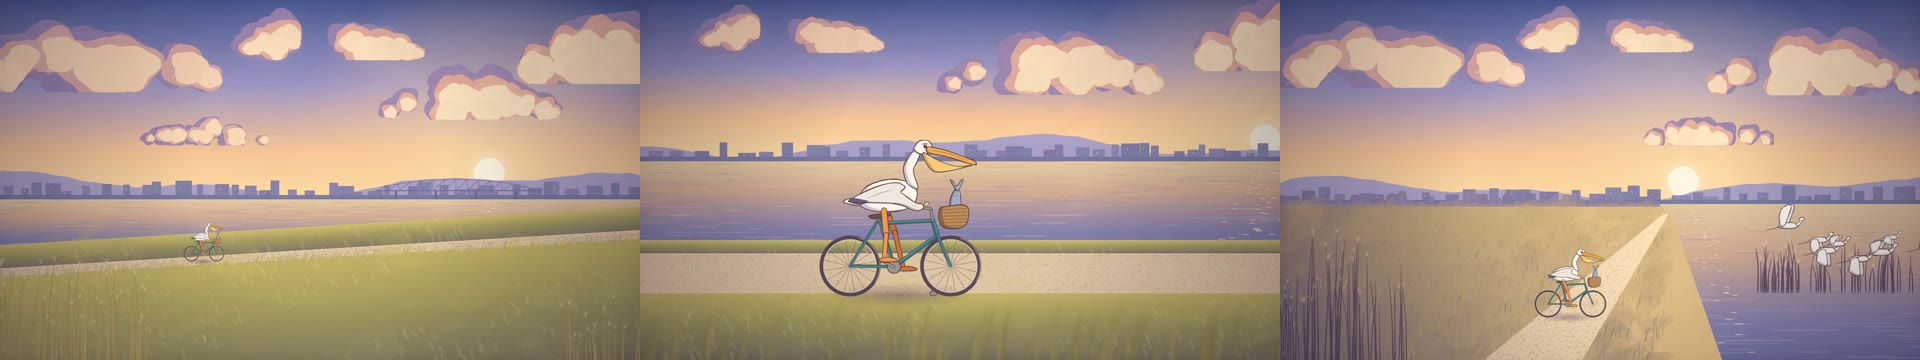
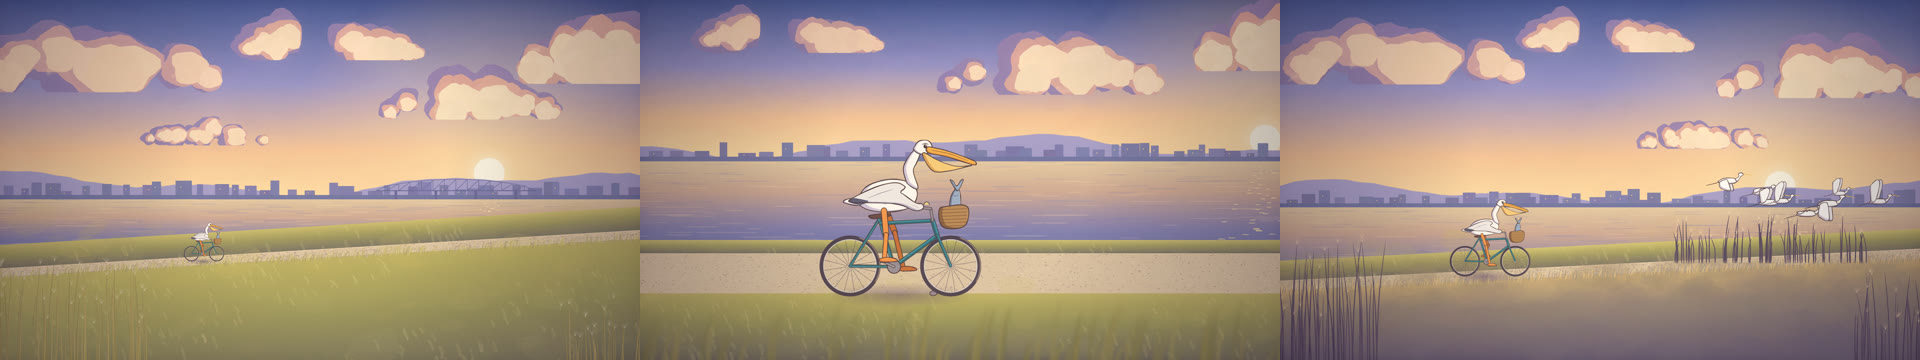
修正鹈鹕横着骑车：重画最后一个镜头，新增朝向检查
第一版最后一个镜头里，侧面画的鹈鹕沿着一条通向纵深的路斜着滑向远处，
车头方向和前进方向差了将近 50 度。四轮看图质检都没发现。

- 最后一个镜头改成侧面看河堤，路横穿画面，鹈鹕向右骑向夕阳
- 新增 heading 检查：镜头每帧用 kit.actor() 报告角色在地面上的位置、
  大小和朝向；移动方向偏离朝向超过 20°，或侧面画的角色往纵深里走，
  都判失败
- 原来的错误收进缺陷样例 riding-sideways，检查能抓到
  （偏了 47°，大小每秒变化 19%）
- 美术规范增加“合乎物理”一条，看图质检增加“这个动作在现实里可能吗”

Claude-Session: https://claude.ai/code/session_011pySt9goBD28FhCfhxhtPW

diff --git a/evals/cases/pelican-embankment/scenes.js b/evals/cases/pelican-embankment/scenes.js
@@ -620,6 +620,7 @@ export default {
       const y = roadTop(px + pan) + 14;
       groundShadow(g, px - pan * 0 - 6, y + 2, s);
       pelican(kit, g, px, y, s, { ...ride(kit, t, {}), light: -0.25 });
+      kit.actor('鹈鹕', { x: px + pan, y, s, facing: 'right' });
       reeds(kit, g, t, [[-20, 460, 1110, 140, 330, 70], [1700, 1960, 1110, 90, 220, 30]], 14);
     };
   },
@@ -662,6 +663,8 @@ export default {
         g.stroke();
       }
       pelican(kit, g, 780, 884, 1, { ...pose, light: -0.35 });
+      // tracking shot: the camera follows, so on the ground the rider moves right as fast as the road scrolls
+      kit.actor('鹈鹕', { x: 780 + nearX, y: 884, s: 1, facing: 'right' });
       // the near verge, blurred by speed
       g.save();
       g.filter = 'blur(6px)';
@@ -675,120 +678,67 @@ export default {
     };
   },
 
-  /** Toward the sunset: the bell, the egrets lifting from the reeds, the rider getting small. */
+  /**
+   * Toward the sunset, seen from the side: the embankment runs across the frame and up toward the sun
+   * on the right; the rider goes the way it faces, rings the bell, and the egrets lift from the reeds.
+   */
   sunset(kit, scene) {
     const plate = kit.layer(1920, 1080);
-    const sun = [1210, 545];
-    paintSky(kit, plate.g, 1920, 610, sun, 41);
-    paintClouds(kit, plate.g, [[320, 220, 760, 240], [960, 130, 520, 150], [1620, 250, 640, 200], [1280, 420, 420, 90]], sun);
-    paintFarBank(kit, plate.g, 1920, 600, 45);
-    paintRiver(kit, plate.g, 1920, 612, 1080, sun[0], 46);
+    const sun = [1500, 560];
+    paintSky(kit, plate.g, 1920, 620, sun, 41);
+    paintClouds(kit, plate.g, [[320, 210, 760, 240], [960, 130, 520, 150], [1640, 260, 640, 190], [1260, 430, 420, 90]], sun);
+    paintFarBank(kit, plate.g, 1920, 610, 45);
+    paintRiver(kit, plate.g, 1920, 622, 860, sun[0], 46);
     const g = plate.g;
-    // land on the near side: the embankment and the fields below it, a wedge from the left edge to the sun
-    const crest = (u) => [lerp(-60, 1150, u), lerp(1180, 640, u)];
-    g.beginPath();
-    g.moveTo(-10, 612);
-    g.lineTo(1140, 612);
-    g.lineTo(1160, 642);
-    g.lineTo(1150, 1090);
-    g.lineTo(-10, 1090);
-    g.closePath();
-    const land = g.createLinearGradient(0, 1080, 900, 620);
-    land.addColorStop(0, '#6e6170');
-    land.addColorStop(0.5, '#a08a68');
-    land.addColorStop(1, '#d9b47a');
-    g.fillStyle = land;
-    g.fill();
-    // the far side of the embankment drops to the water, catching the low sun
-    g.beginPath();
-    g.moveTo(1160, 642);
-    g.lineTo(1150, 1090);
-    g.lineTo(1330, 1090);
-    g.lineTo(1172, 640);
-    g.closePath();
-    g.fillStyle = kit.css('#d9b27a');
-    g.fill();
-    {
-      const tr = kit.rng(54);
-      for (let x = -20; x < 1130; x += 14 + tr() * 22) {
-        const hgt = 10 + tr() * 26 * (x < 700 ? 1 : 0.5);
-        const w = 14 + tr() * 22;
-        g.beginPath();
-        g.ellipse(x, 616 - hgt * 0.5, w * 0.5, hgt * 0.55, 0, 0, Math.PI * 2);
-        g.fillStyle = kit.css(kit.jit('#7a6f92', tr, 10));
-        g.fill();
-      }
-      g.fillStyle = kit.css('#857a8e');
-      g.fillRect(0, 612, 1140, 8);
+    // the road climbs gently toward the sun, like the first shot, so the rider rides the way it faces
+    const roadTop = (x) => 842 - x * 0.05;
+    // the river side of the embankment, catching the low sun
+    paintSlope(kit, g, 1920, (x) => roadTop(x) - 60, 60, 47, { lit: 0.9 });
+    paintRoad(kit, g, 1920, roadTop, () => 30, 48);
+    // the near slope, backlit: warm at the crest, violet below
+    for (let x = 0; x < 1920; x += 3) {
+      const y0 = roadTop(x) + 30;
+      const grd = g.createLinearGradient(0, y0, 0, 1080);
+      grd.addColorStop(0, kit.css('#c9a46a'));
+      grd.addColorStop(0.35, kit.css('#8c7a6a'));
+      grd.addColorStop(1, kit.css('#5e5468'));
+      g.fillStyle = grd;
+      g.fillRect(x, y0, 3, 1080 - y0);
     }
-    kit.mottle(g, 0, 620, 1150, 470, (x, y) => kit.mix(kit.mix('#b8996a', '#7a6a72', kit.clamp((y - 640) / 440)), '#d0a86a', kit.clamp(x / 1400) * 0.4), { n: 500, size: 90, alpha: 0.14, r: kit.rng(52), angle: -0.4 });
-    // road on the crest
-    g.beginPath();
-    g.moveTo(600, 1090);
-    g.lineTo(1150, 642);
-    g.lineTo(1166, 642);
-    g.lineTo(900, 1090);
-    g.closePath();
-    const rd = g.createLinearGradient(0, 1080, 1150, 640);
-    rd.addColorStop(0, '#b89a86');
-    rd.addColorStop(1, '#ffe2b0');
-    g.fillStyle = rd;
-    g.fill();
-    const r = kit.rng(47);
-    for (let i = 0; i < 1800; i++) {
-      const u = r();
-      const y = 1080 - u * 440;
-      const xl = 600 + u * 550;
-      const xr = 900 + u * 266;
-      const x = xl + r() * (xr - xl);
-      g.fillStyle = kit.css(kit.jit(r() < 0.5 ? '#e3c9a1' : '#9e8478', r, 18), 0.6);
-      g.fillRect(x, y, (1 - u) * 4 + 1, (1 - u) * 2 + 0.6);
-    }
-    // grass on the near slope, lit along the crest
-    {
-      const gr = kit.rng(53);
-      const roadLeft = (y) => 600 + ((1090 - y) / 448) * 550;
-      const roadRight = (y) => 900 + ((1090 - y) / 448) * 266;
-      const landRight = (y) => 1160 - ((y - 642) / 448) * 10;
-      for (let i = 0; i < 900; i++) {
-        const y = 650 + gr() * 440;
-        const x = gr() * landRight(y);
-        if (x > roadLeft(y) - 6 && x < roadRight(y) + 6) continue;
-        const u = (y - 640) / 440;
-        kit.grass(g, [x, x + 1], y, { n: 1, len: 8 + 26 * u, colors: ['#9a8c5a', '#7d765a', '#b8a06a', '#8a7a86'], lean: 0.2, r: gr, width: 1 + u * 1.4 });
-      }
-    }
-    kit.tooth(g, 1920, 1080, 48, 0.05);
-    const roadAt = (u) => [lerp(750, 1158, u), lerp(1080, 642, u)];
+    kit.mottle(g, 0, 780, 1920, 300, (x, y) => kit.mix('#a08a68', '#6a5f70', kit.clamp((y - roadTop(x)) / 260)), { n: 380, size: 110, alpha: 0.13, r: kit.rng(52), angle: -0.1 });
+    kit.grass(g, [0, 1920], (x) => roadTop(x) + 34, { n: 900, len: 18, colors: ['#e0b878', '#b89a6a', '#9a8a7a'], lean: 0.2, r: kit.rng(53), width: 1.6 });
+    kit.tooth(g, 1920, 1080, 49, 0.05);
     const birds = Array.from({ length: 8 }, (_, i) => {
       const br = kit.rng(60 + i);
       // the first egret goes on the event itself, the rest follow within a third of a second
-      return { x: 1420 + i * 58 + br() * 30, y: 800 + (i % 3) * 26 + br() * 20, vx: 90 + br() * 90, vy: -(120 + br() * 80), delay: i === 0 ? 0 : 0.05 + br() * 0.3, ph: br(), s: 0.65 + br() * 0.35 };
+      return { x: 1240 + i * 62 + br() * 30, y: 690 + (i % 3) * 20 + br() * 16, vx: 70 + br() * 90, vy: -(130 + br() * 80), delay: i === 0 ? 0 : 0.05 + br() * 0.3, ph: br(), s: 0.65 + br() * 0.35 };
     });
     return (g2, t, dur) => {
       g2.drawImage(plate.canvas, 0, 0);
-      glitter(kit, g2, t, sun[0] + 40, 626, 1060, 160, 49, 0, (x) => Infinity, (x, y) => x > 1172 + ((y - 640) / 450) * 160);
-      // reeds on the river side, where the egrets hide
-      reeds(kit, g2, t, [[1430, 1900, 880, 70, 170, 70]], 50, { backlit: true });
-      // the rider moves up the road toward the sun, getting smaller
-      const u = 0.12 + (t / dur) * 0.34;
-      const [x, y] = roadAt(u);
-      const s = lerp(0.6, 0.3, (u - 0.12) / 0.34);
-      groundShadow(g2, x - 10 * s, y + 2, s);
-      pelican(kit, g2, x, y, s, { ...ride(kit, t, { bellAt: scene.events.bell }), light: -0.2 });
-      // the egrets lift at 1.8 s into the shot
+      glitter(kit, g2, t, sun[0], 640, 840, 170, 50, 0, (x) => roadTop(x) - 66);
+      // reeds on the river side of the embankment, where the egrets hide
+      reeds(kit, g2, t, [[1180, 1760, 790, 60, 150, 70]], 51, { backlit: true });
+      // the rider follows the road to the right, toward the sun
+      const x = 240 + t * 150;
+      const y = roadTop(x) + 16;
+      const s = 0.5;
+      // backlit: the shadow falls toward us and behind
+      groundShadow(g2, x - 30 * s, y + 4, s);
+      pelican(kit, g2, x, y, s, { ...ride(kit, t, { bellAt: scene.events.bell }), light: -0.1 });
+      kit.actor('鹈鹕', { x, y, s, facing: 'right' });
+      // the egrets lift at the event, toward the sun
       const d = kit.twos(t);
       for (const [i, b] of birds.entries()) {
         const k = d - scene.events.birds - b.delay;
         if (k < 0) continue;
         const bx = b.x + b.vx * k + 40 * k * k;
-        const by = b.y + b.vy * k + 30 * k * k * -0.5;
+        const by = b.y + b.vy * k - 15 * k * k;
         // a wingbeat about three times a second, drawn on twos
         const phase = 0.5 + 0.5 * Math.sin((k * 3.2 + b.ph) * Math.PI * 2);
-        egret(kit, g2, bx, by, b.s * 1.15 * (1 - k * 0.07), phase, 70 + i);
+        egret(kit, g2, bx, by, b.s * 1.1 * (1 - k * 0.07), phase, 70 + i);
       }
-      // foreground reeds, backlit, on the left
-      reeds(kit, g2, t, [[-30, 380, 1110, 160, 420, 60]], 51, { backlit: true });
+      // foreground reeds, backlit, at both corners
+      reeds(kit, g2, t, [[-30, 300, 1110, 160, 400, 50], [1720, 1960, 1110, 120, 300, 30]], 54, { backlit: true });
     };
   },
 };

diff --git a/verticals/narrative/runtime/main.js b/verticals/narrative/runtime/main.js
@@ -4,7 +4,10 @@ import * as engine from './engine.js';
 const film = await (await fetch('/film/film.resolved.json')).json();
 const timeline = film.timeline;
 const shots = film.customScenes ? (await import('/film/scenes.js')).default : {};
-const kit = { ...engine };
+// Shots report each character every frame: its position on the ground plane (before any camera
+// move), its scale, and which way it faces. The checks use this to catch impossible motion.
+let frameActors = [];
+const kit = { ...engine, actor: (name, info) => frameActors.push({ name, ...info }) };
 engine.initGrain();
 
 const g = document.getElementById('frame').getContext('2d');
@@ -27,6 +30,7 @@ function seek(t) {
   const i = scenes.findIndex((s, k) => t >= s.start && (t < s.end || k === last));
   if (i < 0) return;
   const s = scenes[i];
+  frameActors = [];
   const lt = t - s.start;
   const dur = s.end - s.start;
   g.save();
@@ -43,6 +47,6 @@ function seek(t) {
   }
 }
 
-window.DF = { duration: timeline.duration, fps: timeline.fps, seek };
+window.DF = { duration: timeline.duration, fps: timeline.fps, seek, get actors() { return frameActors; } };
 seek(Number(new URLSearchParams(location.search).get('t') || 0));
 document.documentElement.dataset.ready = '1';

diff --git a/README.md b/README.md
@@ -14,7 +14,7 @@
 ## 现状
 
 - 一条管线端到端跑通：脚本、时间轴、渲染、自检、成片。
-- 20 项自检。数据短片跑其中 17 项，叙事短片跑 8 项，各跑各的。旁白用 Edge 的中文神经语音，并由语音识别逐句核对念的内容和数字。
+- 21 项自检。数据短片跑其中 17 项，叙事短片跑 9 项，各跑各的。旁白用 Edge 的中文神经语音，并由语音识别逐句核对念的内容和数字。
 - 评测集：8 个用例，34 条注入缺陷。[最近一次结果](evals/BASELINE.md)是干净用例误报 0/8，缺陷检出 34/34。
 - 一支片子可以自带场景代码：内置场景做不出的画面（比如折线图），由智能体为这支片子现写，同样要过自检。
 - 无人值守：模型只拿简报和数据，独立交付影片。两个模型都能做完全部 7 个用例，包括要自己写画面代码的那个。最便宜的 Haiku 5.5 每支约 0.01 美元，Fable 5.2 约 0.7 美元。运行记录在 [evals/agent-runs/](evals/agent-runs/)。
@@ -120,13 +120,14 @@ node evals/run.mjs
 node pipeline/cli.mjs run evals/cases/pelican-embankment
 ```
 
-画法和动作的规矩见 [verticals/narrative/ART.md](verticals/narrative/ART.md)。这条管线额外有三项检查：
+画法和动作的规矩见 [verticals/narrative/ART.md](verticals/narrative/ART.md)。这条管线额外有四项检查：
 
 | 检查 | 查什么 |
 | --- | --- |
 | `pops` | 剪辑点和淡入淡出以外，画面没有一帧突然跳变 |
 | `palette` | 每个镜头的整体颜色和色彩脚本的差距在范围内 |
 | `cue-sync` | 每个画面事件都有声音，声音起点和事件时刻相差不超过 60 毫秒 |
+| `heading` | 角色往哪儿走就朝哪儿，偏差不超过 20°；侧面画的角色不往纵深里走。镜头每一帧用 `kit.actor()` 报告角色在地面上的位置、大小和朝向 |
 
 ## 评测集
 
@@ -213,7 +214,8 @@ node evals/agent-run.mjs
 - **浏览器重画不是逐位一致的。** 同一时刻重画，偶尔有几十个像素的抗锯齿差异，可重复检查容忍万分之一以内的像素差。
 - **数据短片只有六种内置场景。**
 - **叙事短片只有一支。** 引擎（笔触、描线、云、草、成片质感）可以复用，但角色和镜头都写在这支片子自己的 `scenes.js` 里，做第二支时还要验证能复用多少。
-- **叙事短片的检查管不了"好不好看"，也管不了角色走样。** 能自动查的只有突跳、跑色、声画同步、响度和可重复；画面质量靠看图质检。
+- **叙事短片的检查管不了"好不好看"，也管不了角色走样。** 能自动查的只有突跳、跑色、声画同步、朝向、响度和可重复；画面质量靠看图质检。
+- **看图质检会漏掉常识性错误。** 第一版的最后一个镜头里，侧面画的鹈鹕沿着一条通向纵深的路斜着滑向远处，等于横着骑车。我看了四轮抽帧都没发现，是你看片子发现的。`heading` 检查就是为它加的，这个真实错误也收进了缺陷样例 `riding-sideways`。
 - **声画同步只查声音对不对得上声明的事件时刻**，不查画面上那个动作是不是真的发生在那一刻；后者靠两边读同一份事件表来保证。
 
 ## 目录

diff --git a/verticals/narrative/ART.md b/verticals/narrative/ART.md
@@ -43,6 +43,7 @@
 - **跟随动作**：喉囊、翼尖、冠羽比身体晚半拍，晃几下再停。
 - **停顿**：重要的动作之前和之后都要停住，不要一直动。
 - **镜头慢**：推、移都慢，换镜头直接切，最后一个镜头淡出。
+- **合乎物理**：角色往哪儿走就朝哪儿。正侧面画的角色只能横着走；要往纵深里走，就得画成背面或四分之三侧面。镜头每一帧用 `kit.actor(名字, { x, y, s, facing })` 报告角色在地面上的位置（未加镜头运动前的坐标）、大小和朝向，`heading` 检查靠它判断。
 
 ## 五、声音
 
@@ -53,5 +54,5 @@
 ## 六、看图的质检
 
 1. 看 `out/contact.jpg`，也看至少三处 1:1 的局部。
-2. 写下全片最不像动画电影的三处，改掉，再看。至少两轮。
+2. 写下全片最不像动画电影的三处，改掉，再看。至少两轮。也要问一句：这个动作在现实里可能吗？车往哪儿开、影子往哪儿落、东西会不会穿过别的东西。
 3. 看连续帧，检查动作有没有突跳、漂浮、滑步。
